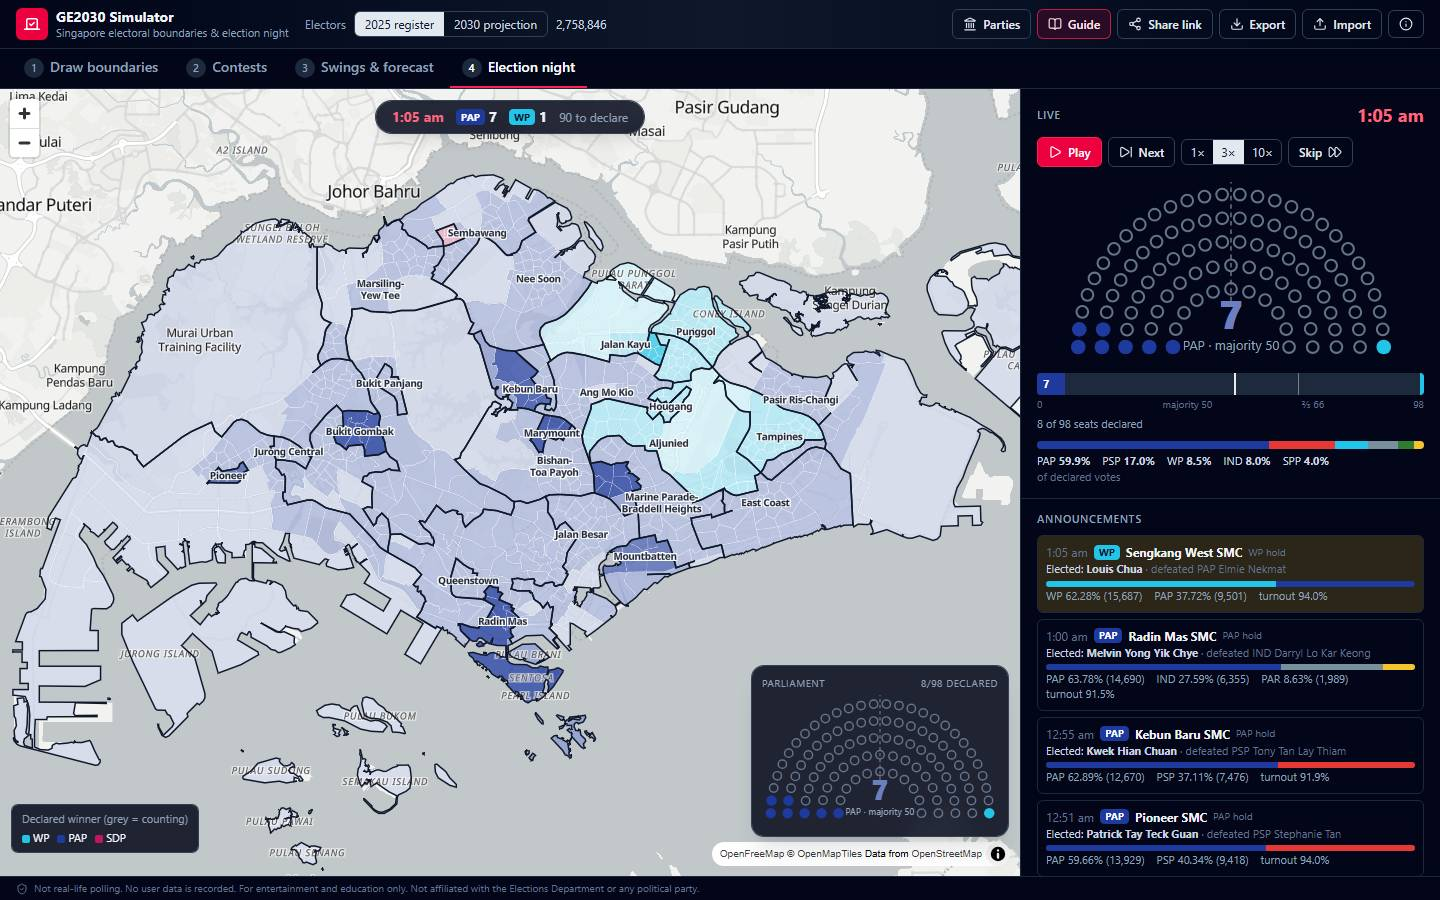
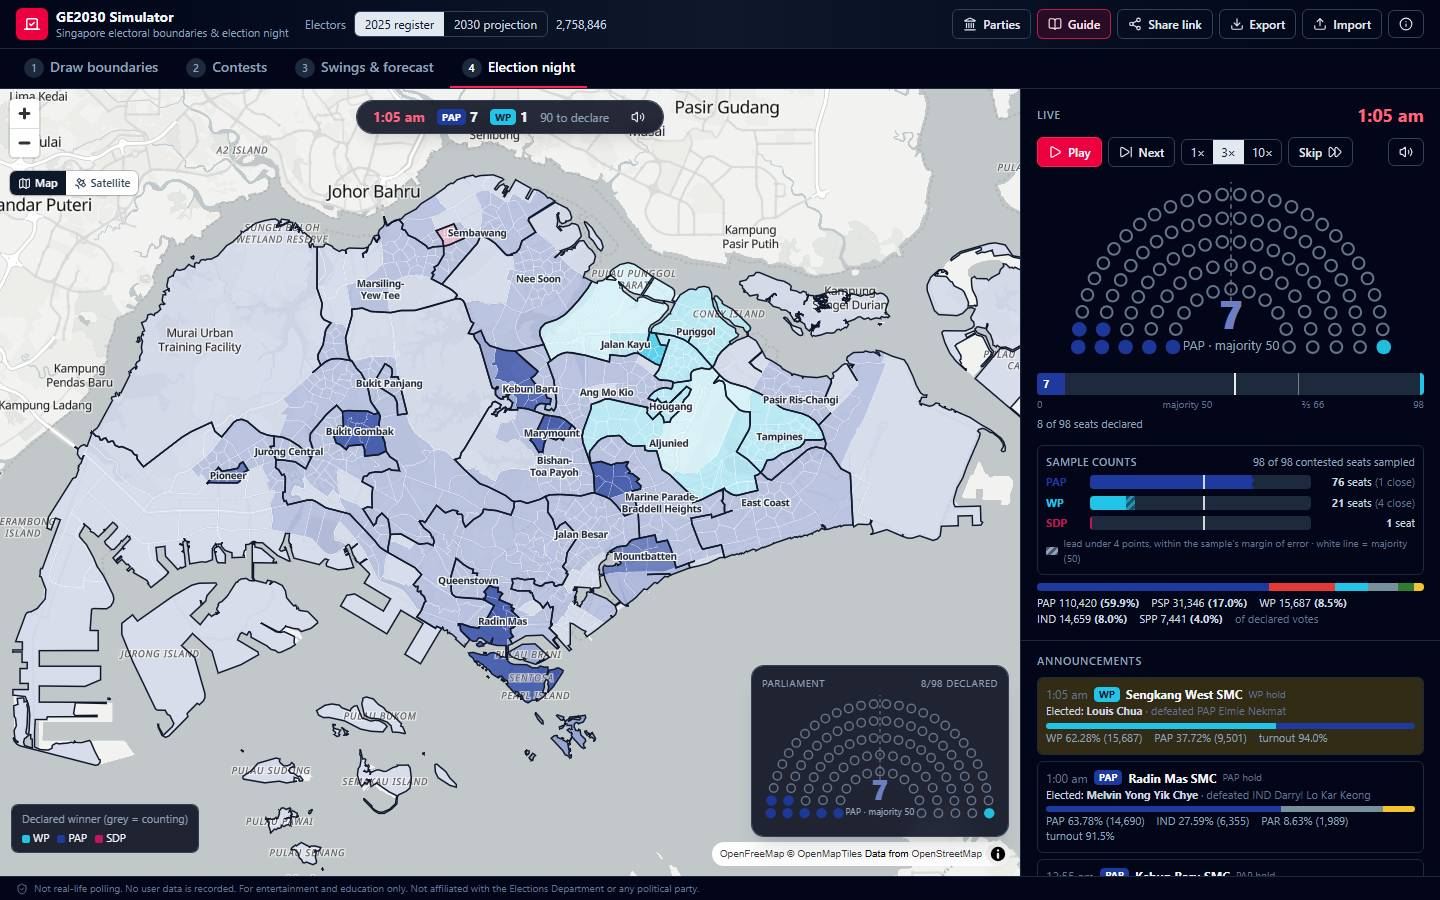
Update beginner guide for new features, retake screenshots
- New shots: sample counts arriving (22) and satellite view (23)
- Retake all guide screenshots; fix the shot script for the leader dropdown
- Describe leader dropdowns, sample-count chart, vote totals, music/mute
  and the Map/Satellite switch; correct the stale 1:13am caption
- Sample chart: singular "1 seat"

diff --git a/guide.html b/guide.html
@@ -224,7 +224,7 @@
         <div><dt>Swing</dt><dd>How much a party's vote share goes up or down compared with last time. It is measured in <b>percentage points ("pp")</b>. <i>If PAP got 60% last time and 55% this time, that's a 5-point swing away from PAP.</i></dd></div>
         <div><dt>Turnout</dt><dd>The percentage of electors who actually voted. It is usually about 92–94% in Singapore because voting is compulsory.</dd></div>
         <div><dt>Notional result</dt><dd>A "what-if" result. If you draw a new constituency, it didn't exist in 2025, so the simulator works out how the people inside it voted in 2025. That estimate is the notional result.</dd></div>
-        <div><dt>Sample count</dt><dd>An early estimate released on election night, before the full count is finished. Officials count a random sample of ballots from each polling station. It is usually accurate to within about 4 percentage points.</dd></div>
+        <div><dt>Sample count</dt><dd>An early estimate released on election night, before the full count is finished. Officials count a random sample of ballots from each polling station. It is usually accurate to within about 4 percentage points. The simulator adds them up live in the Sample counts chart.</dd></div>
         <div><dt>Recount</dt><dd>If the winner beats the runner-up by 2% or less, the candidates can ask for the votes to be counted again.</dd></div>
         <div><dt>NCMP (Non-Constituency MP)</dt><dd>Singapore guarantees at least 12 opposition voices in Parliament. If fewer than 12 opposition MPs win seats, the best-performing losing opposition candidates are offered extra seats as NCMPs, provided they won at least 15% of the vote in their constituency.</dd></div>
         <div><dt>Incumbent / anchor minister</dt><dd>The MP who currently holds the seat. An "anchor minister" is a senior government minister leading a GRC team; they often attract extra votes.</dd></div>
@@ -283,6 +283,7 @@
           <span class="pin" style="left:3.5%;top:14%">5</span>
           <span class="pin" style="left:71.4%;top:12%">6</span>
           <span class="pin" style="left:71.4%;top:21.1%">7</span>
+          <span class="pin" style="left:8.5%;top:20.3%">8</span>
         </div>
         <figcaption><span class="title">The main screen</span>
           <ol>
@@ -293,6 +294,7 @@
             <li><b>Zoom.</b> Use these buttons or your mouse scroll wheel to zoom in and out.</li>
             <li><b>Side panel.</b> Shows the controls and numbers for the current step.</li>
             <li><b><svg class="i" viewBox="0 0 24 24" aria-hidden="true"><path d="m21.64 3.64-1.28-1.28a1.21 1.21 0 0 0-1.72 0L2.36 18.64a1.21 1.21 0 0 0 0 1.72l1.28 1.28a1.2 1.2 0 0 0 1.72 0L21.64 5.36a1.2 1.2 0 0 0 0-1.72"/><path d="m14 7 3 3"/><path d="M5 6v4"/><path d="M19 14v4"/><path d="M10 2v2"/><path d="M7 8H3"/><path d="M21 16h-4"/><path d="M11 3H9"/></svg> Auto-draw.</b> Let the computer redraw the whole map for you (see <a href="#step1-auto">Auto-draw</a>).</li>
+            <li><b>Map / Satellite.</b> Switch the background to satellite photos to see the real rooftops, parks and water under the colours (see <a href="#satellite">Satellite view</a>). It works on every tab, and the simulator remembers your choice.</li>
           </ol>
         </figcaption>
       </figure>
@@ -579,7 +581,7 @@
       <ol class="steps">
         <li>Click a constituency in the list (or on the map) to open it.</li>
         <li>Click party badges to <b>add</b> them (the badge fills in) or <b>remove</b> them (the badge goes hollow). Add a third party to create a three-cornered fight. Leave only one party to create a walkover.</li>
-        <li>Choose each party's <b>anchor leader</b>: the person who leads the team in a GRC, or the candidate in an SMC (see below).</li>
+        <li>Choose each party's <b>anchor leader</b> from the dropdown: the person who leads the team in a GRC, or the candidate in an SMC (see below).</li>
       </ol>
       <figure class="shot">
         <div class="frame"><img src="/guide/10-contest-detail.jpg" alt="East Coast GRC opened in the Contests tab with anchor leaders" loading="lazy" />
@@ -594,7 +596,7 @@
             <li><b>East Coast GRC</b>, a 5-MP team seat, PAP vs WP. The small line underneath shows each party's anchor leader.</li>
             <li><b>All parties.</b> Filled badges are standing; hollow ones are not. Click to switch.</li>
             <li><b>PAP anchor:</b> filled in automatically with the 2025 anchor for these voters (Edwin Tong, Minister for Law).</li>
-            <li><b>WP anchor changed to Pritam Singh.</b> His role appears underneath, and the leader effect was set to <b>+2</b> automatically because he is better known than the 2025 WP anchor here.</li>
+            <li><b>WP anchor changed to Pritam Singh</b>, picked from the dropdown. His role appears underneath, and the leader effect was set to <b>+2</b> automatically because he is better known than the 2025 WP anchor here.</li>
             <li>Other seats show their leaders at a glance, e.g. "WP: Dennis Tan · PAP: Marshall Lim".</li>
           </ol>
         </figcaption>
@@ -602,8 +604,9 @@
       <h3 id="leaders">Anchor leaders</h3>
       <p>Every party team has a <b>leader</b>. In a GRC it's the team's anchor, often a minister or a party chief; in an SMC it's simply the candidate. For each party in an opened seat:</p>
       <ul>
-        <li><b>Pick a real person:</b> click the box to choose from that party's actual GE2025 candidates. Well-known figures, such as the Prime Minister, ministers and party leaders, are listed first with their role.</li>
-        <li><b>Or type any name.</b> This is handy for smaller parties, new faces, or a party you created.</li>
+        <li><b>Pick a real person:</b> tap the dropdown to choose from that party's actual GE2025 candidates. <b>Well-known</b> figures, such as the Prime Minister, ministers and party leaders, are listed first with their role. Everyone else follows, grouped by the constituency they stood in at GE2025. On a phone, this opens your phone's own easy-to-scroll picker.</li>
+        <li><b>Or choose "Custom name…"</b> at the bottom of the list. A text box appears where you can type any name. This is handy for new faces, smaller parties or a party you created. A party with no GE2025 candidates, such as one you invented, just shows the text box.</li>
+        <li><b>No leader:</b> choose "— No anchor leader —" at the top of the list, or press the <b>×</b> next to it.</li>
         <li><b>Leader effect:</b> the simulator suggests how many extra points a leader brings <i>compared with the 2025 anchor for those voters</i>. For example, the Prime Minister is worth about +3 points, a minister +1.5 and a party leader +1 to +2. Moving a big name to a new seat helps there, and the seat they leave behind loses that boost. The slider is only a suggestion; set it to whatever you believe.</li>
       </ul>
       <p>Leaders appear throughout the night: "WP team led by … GAIN from PAP", in the results list, and when you hover over the map.</p>
@@ -712,40 +715,66 @@
       </figure>
       <h3>What happens during the night</h3>
       <ol class="steps">
-        <li><b>~10:30pm – sample counts.</b> Early estimates arrive for each constituency and the map shows a faint tint of the leading party. They're usually right, but can be a few points off.</li>
+        <li><b>~10:30pm – sample counts.</b> Early estimates arrive for each constituency and the map shows a faint tint of the leading party. The <b>Sample counts chart</b> adds up how many seats each party leads so far. They're usually right, but can be a few points off.</li>
         <li><b>The parliament chart fills up.</b> Every seat is a dot. Empty rings are seats still being counted, and each dot pops into a party's colour as its result is declared.</li>
         <li><b>~11:30pm onwards – official results.</b> Each constituency is declared one by one. Small SMCs come first and big GRCs come in the early morning. The map fills in with the winner's colour.</li>
         <li><b>The call.</b> As soon as a party passes the majority line, a banner announces it.</li>
-        <li><b>The end.</b> A final summary shows seats, vote shares, which seats changed hands, and any NCMP seats offered.</li>
+        <li><b>The end.</b> A final summary shows seats, votes and vote shares, which seats changed hands, and any NCMP seats offered.</li>
       </ol>
       <figure class="shot">
-        <div class="frame"><img src="/guide/15-night-live.jpg" alt="Election night in progress at 1:13am with 9 seats declared" loading="lazy" />
-          <span class="pin" style="left:23.4%;top:13%">1</span>
+        <div class="frame"><img src="/guide/22-night-samples.jpg" alt="Sample counts arriving at 11:16pm: the Sample counts chart shows PAP leading in 34 seats, WP in 7 and SDP in 1, with 42 of 98 seats sampled" loading="lazy" />
+          <span class="pin" style="left:71.5%;top:49.7%">1</span>
+          <span class="pin" style="left:73.3%;top:56%">2</span>
+          <span class="pin" style="left:83.5%;top:58.5%">3</span>
+          <span class="pin" style="left:73%;top:61.5%">4</span>
+          <span class="pin" style="left:54%;top:49%">5</span>
+          <span class="pin" style="left:71.5%;top:71%">6</span>
+        </div>
+        <figcaption><span class="title">11:16pm: sample counts arriving, nothing declared yet</span>
+          <ol>
+            <li><b>Sample counts chart.</b> "42 of 98 contested seats sampled" means early estimates are in for constituencies worth 42 seats so far.</li>
+            <li><b>One bar per party:</b> the seats where that party is ahead on its sample count. A 5-member GRC counts as 5 seats. Here: PAP 34, WP 7, SDP 1.</li>
+            <li><b>The white line</b> marks a majority. A party whose bar crosses it would win the election <i>if the samples are right</i>.</li>
+            <li><b>Striped parts</b> (see the key under the chart) are "close" seats, where the lead is under 4 points. That's within the sample count's margin of error, so those seats could still go either way.</li>
+            <li><b>A faint tint on the map</b> shows the party leading the sample count in that seat.</li>
+            <li><b>Sample count announcements.</b> A news flash warns when a seat is too close to call.</li>
+          </ol>
+        </figcaption>
+      </figure>
+      <p>The Sample counts chart keeps its tally even after the official results come in. Once the night is over, compare it with the real seat bar above to see how good the samples were.</p>
+      <figure class="shot">
+        <div class="frame"><img src="/guide/15-night-live.jpg" alt="Election night in progress at 1:05am with 8 seats declared" loading="lazy" />
+          <span class="pin" style="left:25%;top:13%">1</span>
           <span class="pin" style="left:92.7%;top:12.9%">2</span>
           <span class="pin" style="left:71.5%;top:16.9%">3</span>
           <span class="pin" style="left:71.5%;top:30%">4</span>
           <span class="pin" style="left:71.5%;top:42.7%">5</span>
-          <span class="pin" style="left:71.5%;top:50.2%">6</span>
-          <span class="pin" style="left:71.5%;top:62.2%">7</span>
-          <span class="pin" style="left:36.1%;top:41.7%">8</span>
-          <span class="pin" style="left:26.4%;top:33.3%">9</span>
-          <span class="pin" style="left:51.5%;top:77.8%">10</span>
+          <span class="pin" style="left:71.5%;top:51.3%">6</span>
+          <span class="pin" style="left:71.5%;top:67%">7</span>
+          <span class="pin" style="left:71.5%;top:77.1%">8</span>
+          <span class="pin" style="left:36.1%;top:41.7%">9</span>
+          <span class="pin" style="left:26.4%;top:33.3%">10</span>
+          <span class="pin" style="left:51.5%;top:77.8%">11</span>
+          <span class="pin" style="left:97.6%;top:16.9%">12</span>
         </div>
-        <figcaption><span class="title">1:13am: results coming in</span>
+        <figcaption><span class="title">1:05am: results coming in</span>
           <ol>
-            <li><b>Scoreboard:</b> the time, seats won so far, and seats still to declare.</li>
+            <li><b>Scoreboard:</b> the time, seats won so far, seats still to declare, and a speaker button to mute the music.</li>
             <li><b>Clock.</b></li>
             <li><b>Controls:</b> <span class="ui">Play/Pause</span>, <span class="ui">Next</span> jumps to the next announcement, <span class="ui">1× 3× 10×</span> set the speed, and <span class="ui">Skip</span> jumps to the final result.</li>
             <li><b>Live parliament chart.</b> Filled dots are declared seats, empty rings are still counting, and the big number is the leading party's seats.</li>
             <li><b>Seats declared</b> as a bar, with the majority line.</li>
-            <li><b>Vote share</b> of all votes counted so far.</li>
-            <li><b>Announcements</b>, newest at the top, with who was elected and who they defeated. A yellow <b>"SDP GAIN from PAP"</b> tag, like on Sembawang West here, means the seat changed hands compared with how those voters voted in 2025.</li>
+            <li><b>Sample counts chart:</b> by now every seat has been sampled. Compare it with the declared seats above as results arrive.</li>
+            <li><b>Votes counted so far</b> for each party, with their share, e.g. "PSP 31,346 (17.0%)".</li>
+            <li><b>Announcements</b>, newest at the top, with who was elected, who they defeated, and each party's votes. A yellow <b>"GAIN from …"</b> tag means the seat changed hands compared with how those voters voted in 2025.</li>
             <li><b>Declared seats</b> show in full colour.</li>
             <li><b>Grey or faintly tinted seats</b> are still counting.</li>
             <li><b>A second parliament chart on the map</b>, so you can watch the map and the chart together.</li>
+            <li><b>Mute</b> <span class="ui"><svg class="i" viewBox="0 0 24 24" aria-hidden="true"><path d="M11 4.702a.705.705 0 0 0-1.203-.498L6.413 7.587A1.4 1.4 0 0 1 5.416 8H3a1 1 0 0 0-1 1v6a1 1 0 0 0 1 1h2.416a1.4 1.4 0 0 1 .997.413l3.383 3.384A.705.705 0 0 0 11 19.298z"/><path d="M16 9a5 5 0 0 1 0 6"/><path d="M19.364 18.364a9 9 0 0 0 0-12.728"/></svg></span> turns the election-night music off or on (see below).</li>
           </ol>
         </figcaption>
       </figure>
+      <div class="callout"><b>Election-night music</b>While the count runs, a newsroom-style theme plays, with a short brass sting for breaking news and projections, and a flourish when the last result is in. The music is made by your browser as it plays, so nothing is downloaded. It stops when you pause. Press the speaker button in the panel, or on the scoreboard over the map, to mute it. The simulator remembers your choice for next time.</div>
       <figure class="shot">
         <div class="frame"><img src="/guide/16-night-result.jpg" alt="The final result: PAP forms the government with 76 of 98 seats" loading="lazy" />
           <span class="pin" style="left:35.4%;top:23.6%">1</span>
@@ -759,7 +788,7 @@
           <ol>
             <li><b>The call:</b> "PAP wins a majority". Just above it, the latest news flash from the night.</li>
             <li><b>Verdict:</b> who forms the government and whether they kept two-thirds.</li>
-            <li><b>Results table:</b> seats and national vote share for every party. <b>vs 2025</b> shows the change from the real 2025 result (green = up, red = down). If any NCMP seats are offered, they appear as "+2N" and in a list below.</li>
+            <li><b>Results table:</b> seats, total votes and national vote share for every party, e.g. "WP 21 seats, 450,884 votes, 17.9%". <b>vs 2025</b> shows the change from the real 2025 result (green = up, red = down). If any NCMP seats are offered, they appear as "+2N" and in a list below.</li>
             <li><b>Changing hands:</b> every seat won by a different party than in 2025, with the winning team's leader. The amber note above it is a reminder that this is a simulation you made, not a poll.</li>
             <li><b>Announcements:</b> scroll down to see every result from the night. Occasional <b>news flashes</b> (Breaking, Projection, Analysis) are mixed in: the first result, seats changing hands, photo finishes, the moment a party wins a majority, and a final round-up. The latest flash also appears briefly across the top of the map.</li>
             <li><b>The finished parliament.</b> If any NCMP seats are offered, they appear as coloured rings underneath the chart.</li>
@@ -781,6 +810,20 @@
             <li><b>Dark navy:</b> safe PAP seats. Paler navy means closer PAP wins.</li>
             <li><b>Pink:</b> an SDP win in Sembawang West.</li>
             <li><b>The final parliament</b> (76 PAP, 21 WP, 1 SDP). The pink dot is the SDP seat.</li>
+          </ol>
+        </figcaption>
+      </figure>
+      <figure class="shot" id="satellite">
+        <div class="frame"><img src="/guide/23-satellite.jpg" alt="The same results map drawn over satellite imagery, with Paya Lebar Air Base and Changi Airport visible through the colours" loading="lazy" />
+          <span class="pin" style="left:8.5%;top:20.3%">1</span>
+          <span class="pin" style="left:40%;top:54%">2</span>
+          <span class="pin" style="left:36%;top:94.8%">3</span>
+        </div>
+        <figcaption><span class="title">Satellite view</span>
+          <ol>
+            <li><b>Map / Satellite switch</b>, under the zoom buttons on every tab. The simulator remembers your choice.</li>
+            <li><b>The colours turn see-through</b> so you can see what's underneath: here the Paya Lebar Air Base runway shows through the WP-won seats in the middle, and Changi Airport lies to the east. Boundaries, labels and colours work exactly as on the street map.</li>
+            <li><b>Credit</b> for the satellite photos.</li>
           </ol>
         </figcaption>
       </figure>
@@ -824,14 +867,14 @@
       <details><summary>Why can't I get exactly 97 seats?</summary><p>You can! Seats = number of SMCs + MPs in each GRC. Adjust GRC sizes (3–6) or add and remove constituencies until the total matches. Parliament can also change size between elections, so any total is allowed. The count is shown as information only.</p></details>
       <details><summary>Why is part of my map pale or white?</summary><p><b>Pale</b> areas have no voters: industrial land, the airport, nature reserves and offshore islands. <b>White</b> areas are populated places that aren't in any constituency yet. The Checks box will flag them.</p></details>
       <details><summary>My mouse drags the map instead of painting (or the other way round)</summary><p>With Paint, Erase or Lasso selected, dragging draws. To move the map instead, hold <kbd>Space</kbd> while dragging, switch to the Pan tool (<kbd>H</kbd>), or use the scroll wheel to zoom.</p></details>
-      <details><summary>Does it work on a phone?</summary><p>Yes. The map sits on top and the controls below. Drawing boundaries is easier with a mouse on a bigger screen, but forecasting and election night work well on phones.</p></details>
+      <details><summary>Does it work on a phone?</summary><p>Yes. The map sits on top and the controls below. Drawing boundaries is easier with a mouse on a bigger screen, but forecasting and election night work well on phones. Choosing anchor leaders uses your phone's own picker, so there's no typing.</p></details>
       <details><summary>Keyboard shortcuts</summary><p><kbd>1</kbd>–<kbd>4</kbd> switch tabs. <kbd>V</kbd> Select, <kbd>B</kbd> Paint, <kbd>G</kbd> Fill, <kbd>L</kbd> Lasso, <kbd>E</kbd> Erase, <kbd>H</kbd> Pan. <kbd>Space</kbd> (hold) pans the map. <kbd>Ctrl</kbd>+<kbd>Z</kbd> undoes and <kbd>Ctrl</kbd>+<kbd>Y</kbd> redoes.</p></details>
       <p style="margin-top:28px"><a class="open-app" href="./" style="display:inline-flex">Open the simulator and try it <svg class="i" viewBox="0 0 24 24" aria-hidden="true"><path d="M5 12h14"/><path d="m12 5 7 7-7 7"/></svg></a></p>
     </section>
 
     <footer>
       <p><b>Disclaimer.</b> This simulator does not represent any real-life polling, survey or official projection. No user data is recorded: nothing you do is sent to a server, and your work is saved only in your own browser. It is intended purely for entertainment and educational purposes, and is not affiliated with the Elections Department or any political party.</p>
-      GE2030 Simulator: an unofficial fan project for exploring Singapore's electoral system. Data: Elections Department, URA and SingStat via data.gov.sg (Singapore Open Data Licence). Map © OpenFreeMap, © OpenStreetMap contributors.
+      GE2030 Simulator: an unofficial fan project for exploring Singapore's electoral system. Data: Elections Department, URA and SingStat via data.gov.sg (Singapore Open Data Licence). Map © OpenFreeMap, © OpenStreetMap contributors. Satellite imagery © Esri, Maxar, Earthstar Geographics.
     </footer>
   </main>
 </div>

diff --git a/src/components/SampleCountChart.tsx b/src/components/SampleCountChart.tsx
@@ -26,7 +26,7 @@ export function SampleCountChart({ tally, total, parties }: { tally: SampleTally
               </div>
               <div className="absolute inset-y-0 w-0.5 bg-white/80" style={{ left: x(majority) }} title={`Majority: ${majority}`} />
             </div>
-            <span className="tabular w-24 shrink-0 text-right text-slate-300"><b>{t.seats}</b> seats{t.close ? <span className="text-slate-500"> ({t.close} close)</span> : ''}</span>
+            <span className="tabular w-24 shrink-0 text-right text-slate-300"><b>{t.seats}</b> seat{t.seats === 1 ? '' : 's'}{t.close ? <span className="text-slate-500"> ({t.close} close)</span> : ''}</span>
           </div>
         ))}
       </div>
